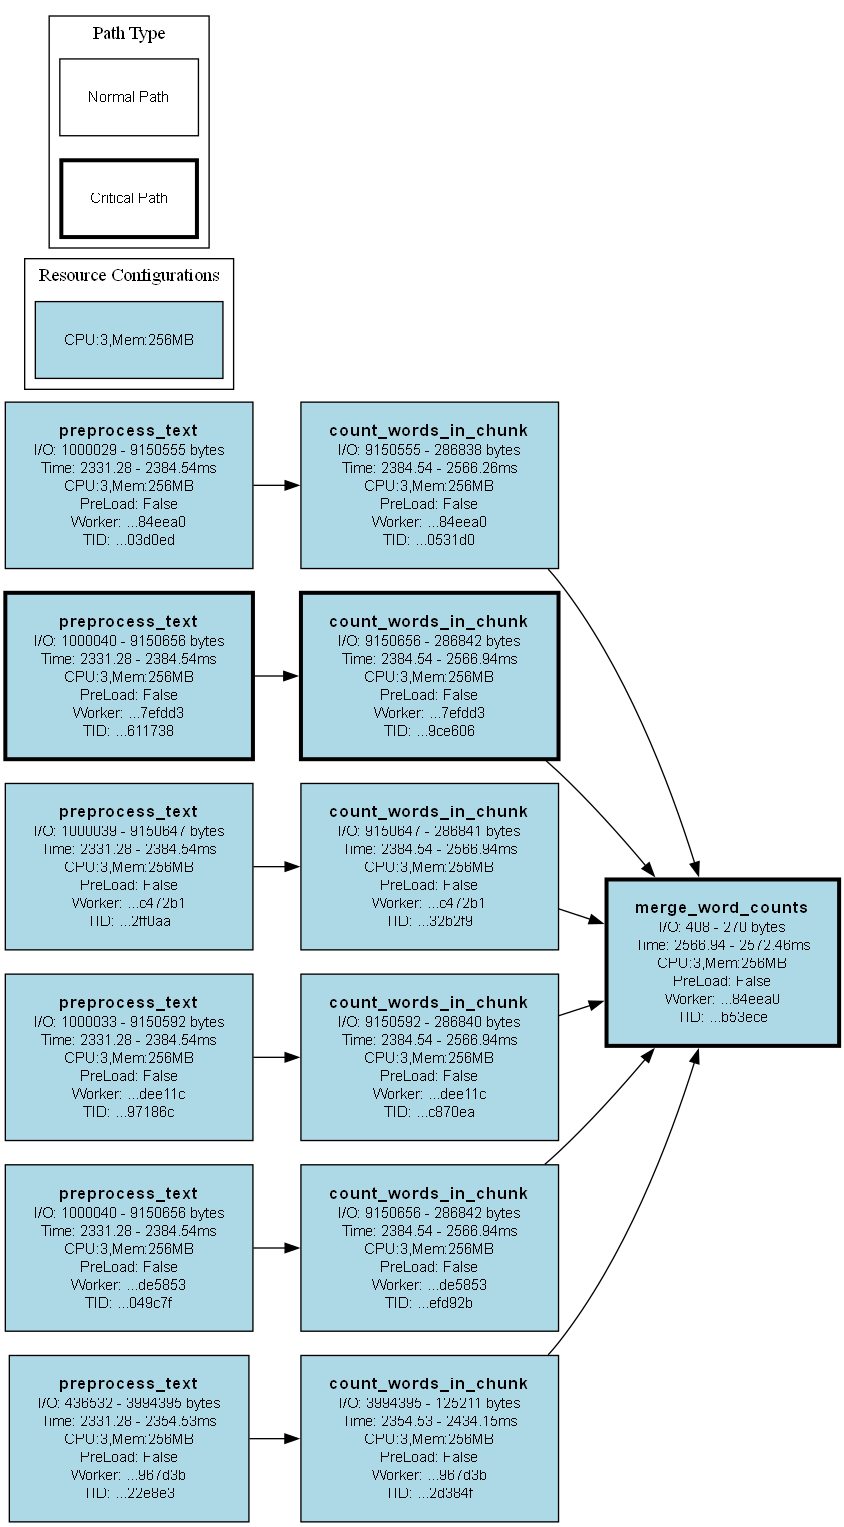
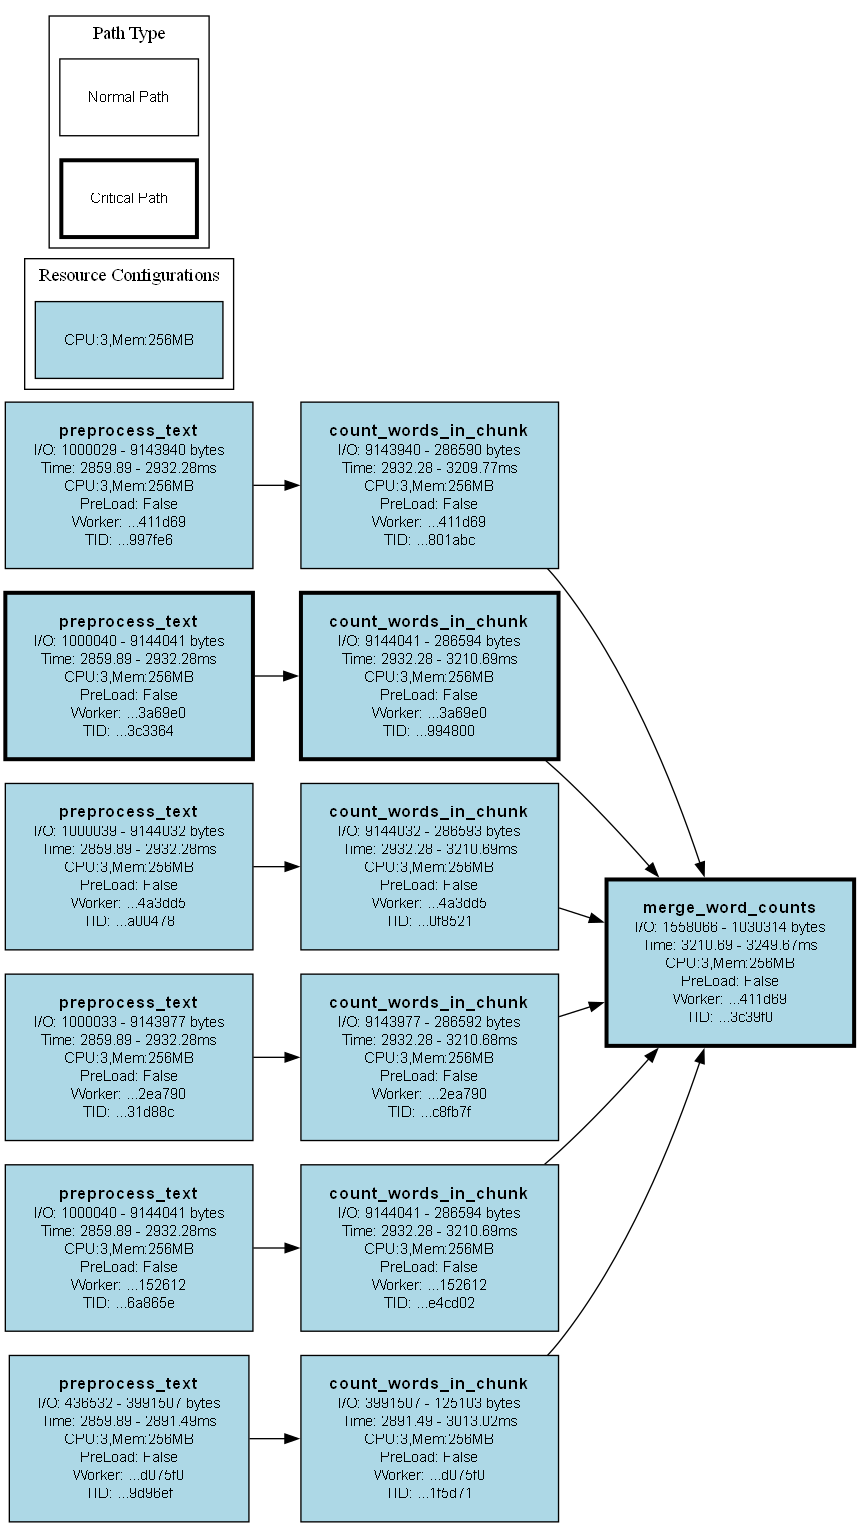
fixed a bug that was impacting wordcount predictions (simulation code was not prepared when task input was a list of lazy references, only direct references (not nested))

diff --git a/src/planning/abstract_dag_planner.py b/src/planning/abstract_dag_planner.py
@@ -136,12 +136,19 @@ class AbstractDAGPlanner(ABC, WorkerExecutionLogic):
 
         total_input_size = 0
         # For root nodes, use the size from function args (estimate)
+
         for func_arg in node.func_args:
             if isinstance(func_arg, dag_task_node.DAGTaskNodeId): 
                 upstream_node_id = func_arg.get_full_id()
                 if upstream_node_id in nodes_info:
                     output_size = nodes_info[upstream_node_id].deserialized_output_size if deserialized else nodes_info[upstream_node_id].serialized_output_size
                     total_input_size += output_size
+            elif isinstance(func_arg, list) and all(isinstance(item, dag_task_node.DAGTaskNodeId) for item in func_arg):
+                for item in func_arg:
+                    upstream_node_id = item.get_full_id()
+                    if upstream_node_id in nodes_info:
+                        output_size = nodes_info[upstream_node_id].deserialized_output_size if deserialized else nodes_info[upstream_node_id].serialized_output_size
+                        total_input_size += output_size
             else:
                 total_input_size += calculate_data_structure_size(func_arg) if deserialized else calculate_data_structure_size(cloudpickle.dumps(func_arg))
         for func_kwarg_val in node.func_kwargs.values():
@@ -150,6 +157,12 @@ class AbstractDAGPlanner(ABC, WorkerExecutionLogic):
                 if upstream_node_id in nodes_info: 
                     output_size = nodes_info[upstream_node_id].deserialized_output_size if deserialized else nodes_info[upstream_node_id].serialized_output_size
                     total_input_size += output_size
+            elif isinstance(func_kwarg_val, list) and all(isinstance(item, dag_task_node.DAGTaskNodeId) for item in func_kwarg_val):
+                for item in func_kwarg_val:
+                    upstream_node_id = item.get_full_id()
+                    if upstream_node_id in nodes_info:
+                        output_size = nodes_info[upstream_node_id].deserialized_output_size if deserialized else nodes_info[upstream_node_id].serialized_output_size
+                        total_input_size += output_size
             else:
                 total_input_size += calculate_data_structure_size(func_kwarg_val) if deserialized else calculate_data_structure_size(cloudpickle.dumps(func_kwarg_val))
 
@@ -160,6 +173,9 @@ class AbstractDAGPlanner(ABC, WorkerExecutionLogic):
         worker_id = node.get_annotation(TaskWorkerResourceConfiguration).worker_id
         deserialized_input_size = self._calculate_total_input_size(node, nodes_info, deserialized=True)
         serialized_input_size = self._calculate_total_input_size(node, nodes_info, deserialized=False)
+
+        if node.id.function_name == "merge_word_counts":
+            print("Predicted Input: ", deserialized_input_size, "bytes")
 
         downloadable_input_size = 0
         
@@ -195,6 +211,9 @@ class AbstractDAGPlanner(ABC, WorkerExecutionLogic):
         exec_time = predictions_provider.predict_execution_time(node.func_name, deserialized_input_size, resource_config, sla)
         deserialized_output_size = predictions_provider.predict_output_size(node.func_name, deserialized_input_size, sla, deserialized=True)
         serialized_output_size = predictions_provider.predict_output_size(node.func_name, deserialized_input_size, sla, deserialized=False)
+
+        if node.id.function_name == "count_words_in_chunk":
+            print("Predicted Output: ", deserialized_output_size, "bytes")
         
         # 5. Calculate upload_time (existing logic is correct)
         if len(node.downstream_nodes) > 0 and worker_id is not None and \
